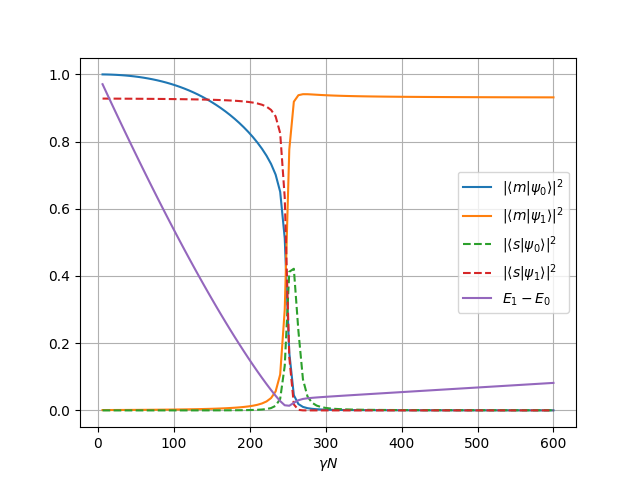
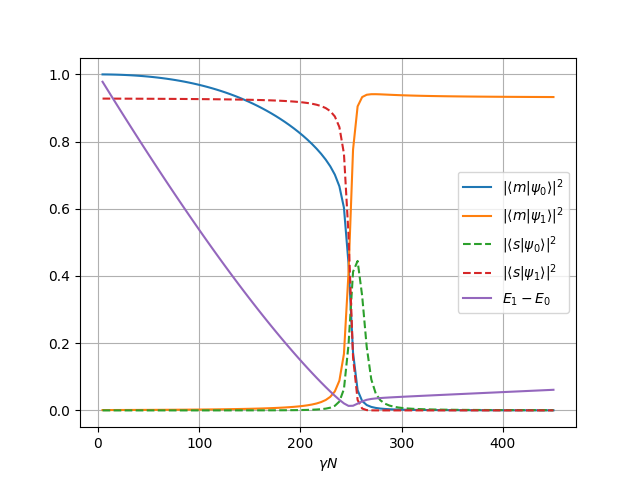
Updated plots

diff --git a/main.py b/main.py
@@ -59,8 +59,8 @@ def amplitudes_plot(alpha, dimensions, gammasN, amps, e1_minus_e0):
 if __name__ == "__main__":
     dimensions = 1024
     mark = 5
-    gamma = 450/dimensions
-    alpha = 1.5
+    gamma = 4000/dimensions
+    alpha = 3
     number_of_points = 100
     gammas = [gamma*(i/number_of_points) for i in range(1,(number_of_points+1))]
     m_psi_0s = []
@@ -71,7 +71,6 @@ if __name__ == "__main__":
     m_ket = marked_state(n=dimensions, marked=mark)
     s_ket = superposition_state(n=dimensions)    
     for point, gamma in enumerate(gammas):
-        
         H = -gamma*dimensions*np.outer(s_ket, s_ket) - np.outer(m_ket, m_ket) 
         if alpha: 
             H = hamiltonian_matrix(n=dimensions, gamma=gamma, alpha=alpha, marked=mark)
